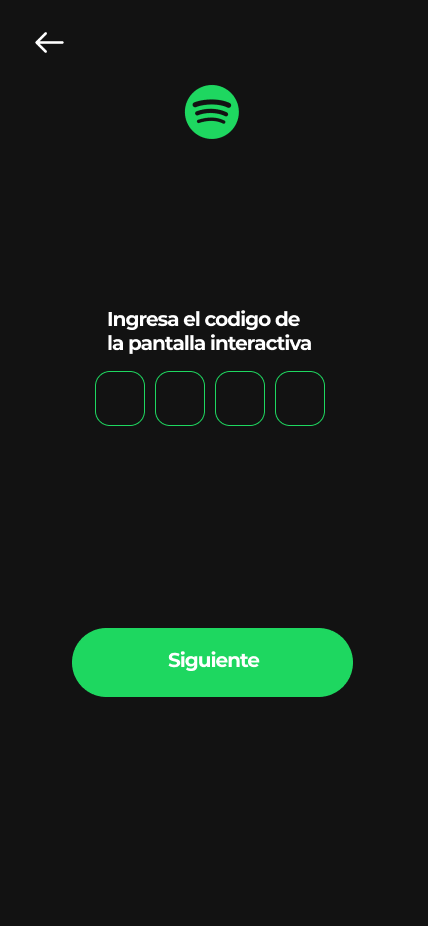
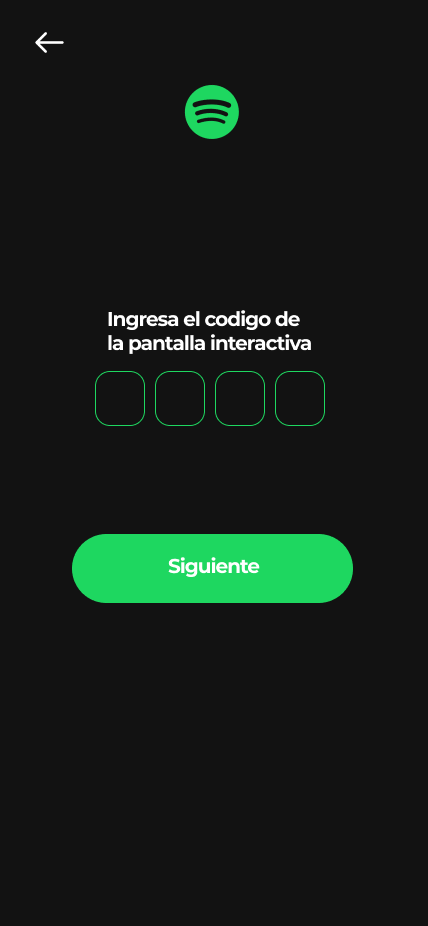
segundo commit

Changed region(s): [[0.1519, 0.5745, 0.8201, 0.7559]]

diff --git a/sketch.js b/sketch.js
@@ -72,7 +72,7 @@ function mouseClicked() {
   if (dist(131, 978, mouseX, mouseY) < 100) {
     screenCounter = 1;
   }
-  //pasa de menu a home
+  //devuelve de menu a home
   if (screenCounter === 1) {
     if (dist(41, 46, mouseX, mouseY) < 100) {
       screenCounter = 0;
@@ -84,7 +84,7 @@ function mouseClicked() {
       screenCounter = 2;
     }
   }
-  //pasa de codigo a menu
+  //devuelve de codigo a menu
   if (screenCounter === 2) {
     if (dist(41, 46, mouseX, mouseY) < 100) {
       screenCounter = 1;
@@ -92,11 +92,11 @@ function mouseClicked() {
   }
   //pasa de codigo a cancion
   if (screenCounter === 2) {
-    if (dist(209, 663, mouseX, mouseY) < 50) {
+    if (dist(204, 570, mouseX, mouseY) < 50) {
       screenCounter = 3;
     }
   }
-  //pasa de cancion a codigo
+  //devuelve de cancion a codigo
   if (screenCounter === 3) {
     if (dist(41, 46, mouseX, mouseY) < 100) {
       screenCounter = 2;
